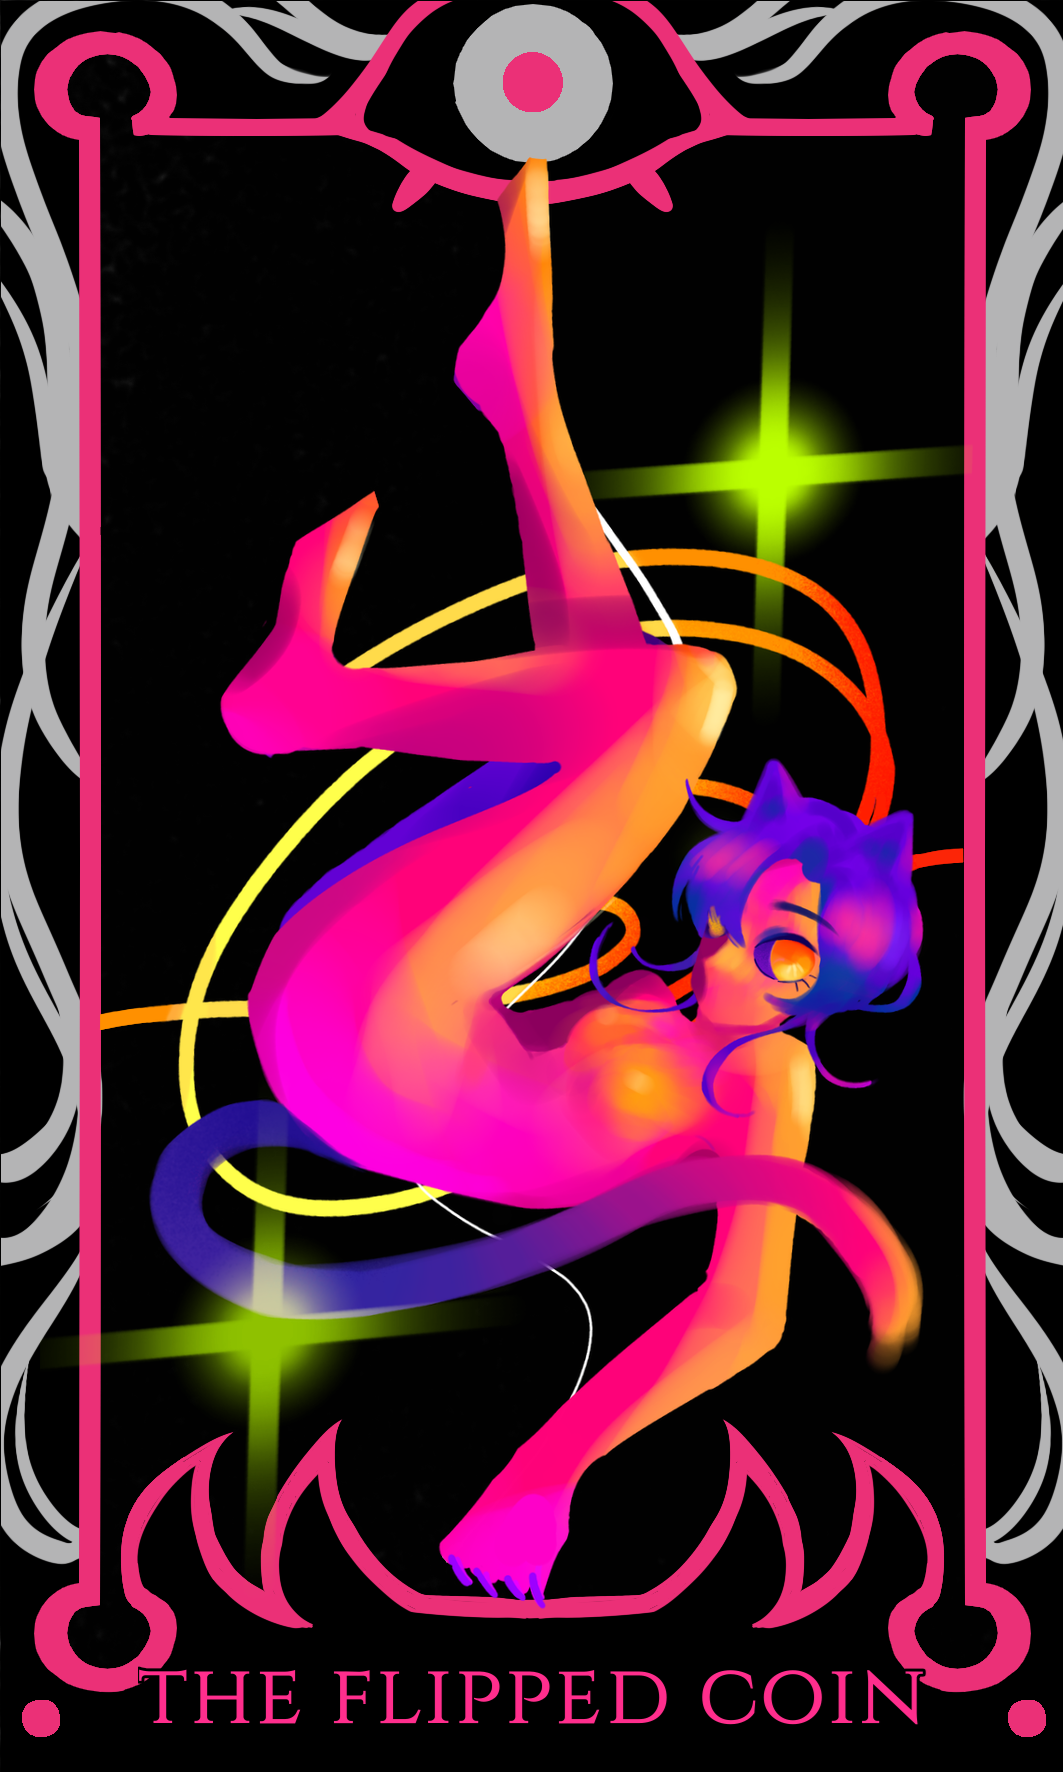
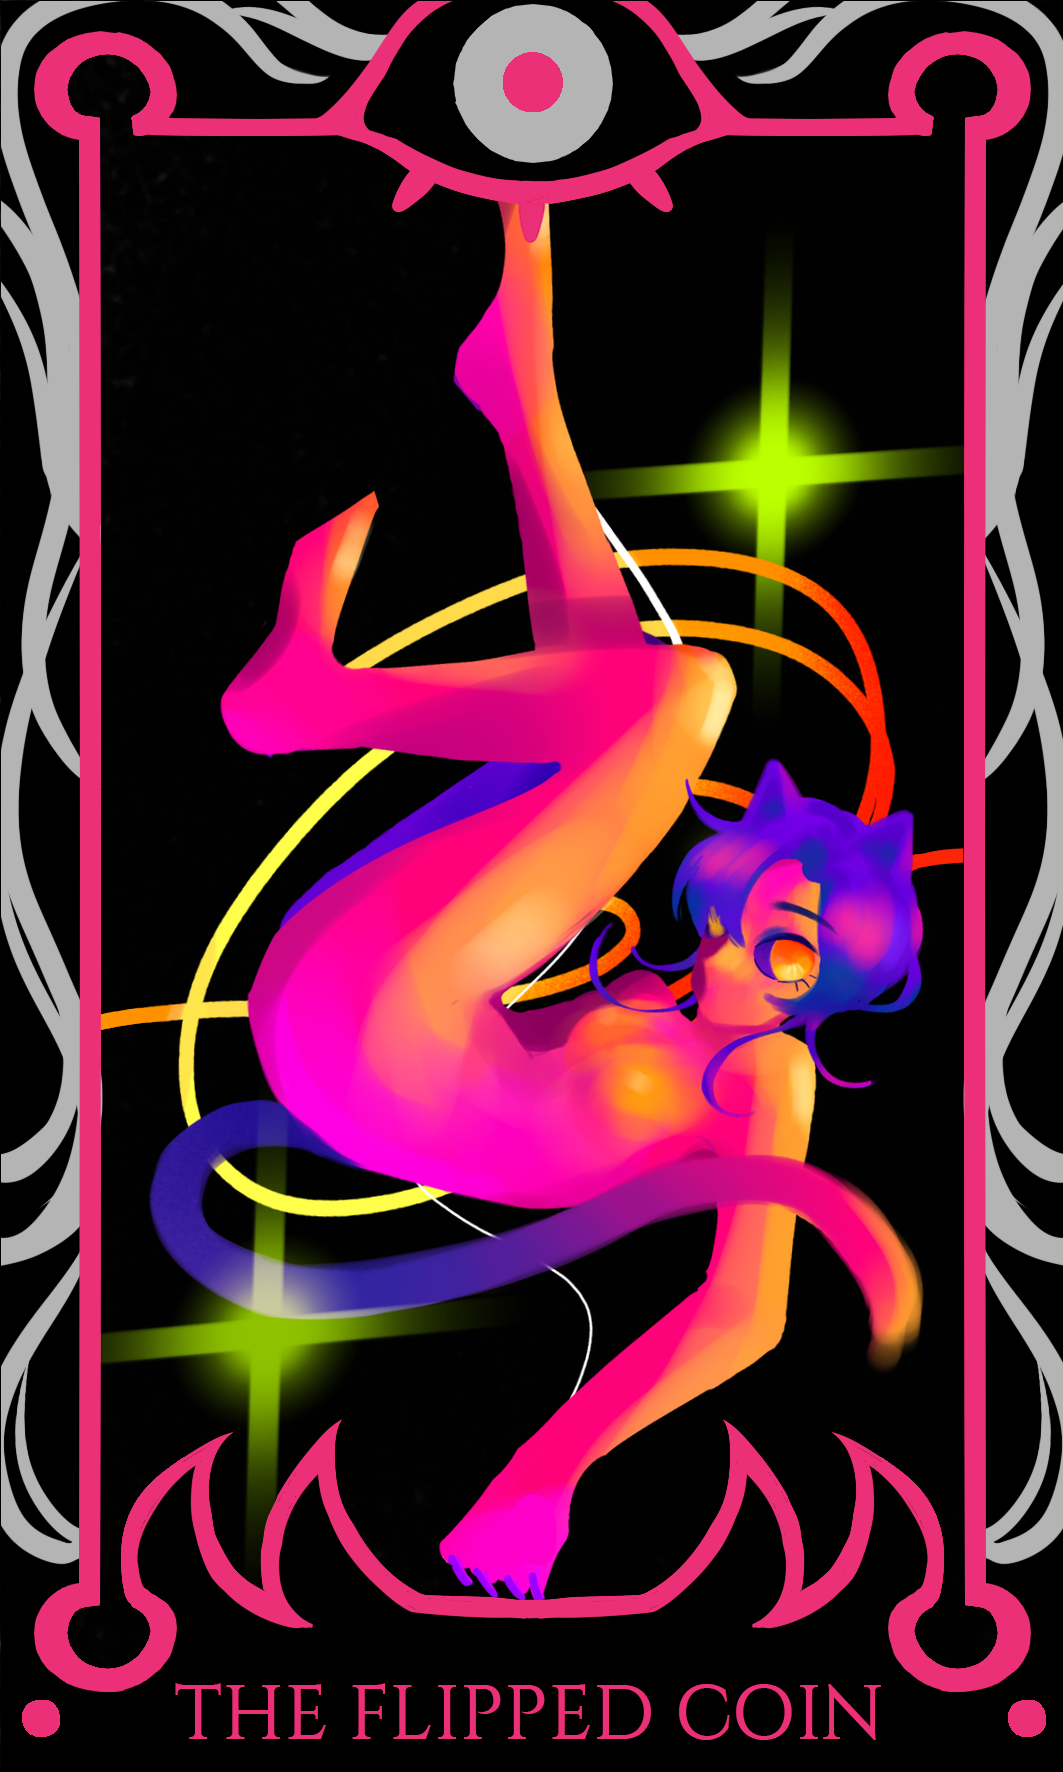
ีupdate data, images and font color

Changed region(s): [[0.1242, 0.9312, 0.8692, 0.9932], [0.4657, 0.0931, 0.5278, 0.1552], [0.0621, 0.7449, 0.0931, 0.776]]

diff --git a/src/App.svelte b/src/App.svelte
@@ -112,7 +112,6 @@
   </section> -->
   <section use:scrollRef={"talk"}>
     <div class="splash-img-talk">
-
       <Landing name="talk" />
     </div>
   </section>
@@ -179,6 +178,7 @@
     font-family: "Nunito", sans-serif;
     font-size: 19px;
     color: inherit;
+    color: white;
   }
   .footer {
     margin-top: auto;
@@ -205,19 +205,19 @@
   }
 
   .splash-img-talk {
-    background: rgba(0, 0, 0, 0.0) url("/splash6.jpg");
+    background: rgba(0, 0, 0, 0) url("/splash6.jpg");
     background-size: cover;
     background-repeat: no-repeat;
     background-blend-mode: darken;
   }
 
   @media (max-width: 900px) {
-   .splash {
-    padding: 40px;
-   }
-   .flex-container {
-    display: flex;
-    flex-direction: column;
-  }
+    .splash {
+      padding: 40px;
+    }
+    .flex-container {
+      display: flex;
+      flex-direction: column;
+    }
   }
 </style>
